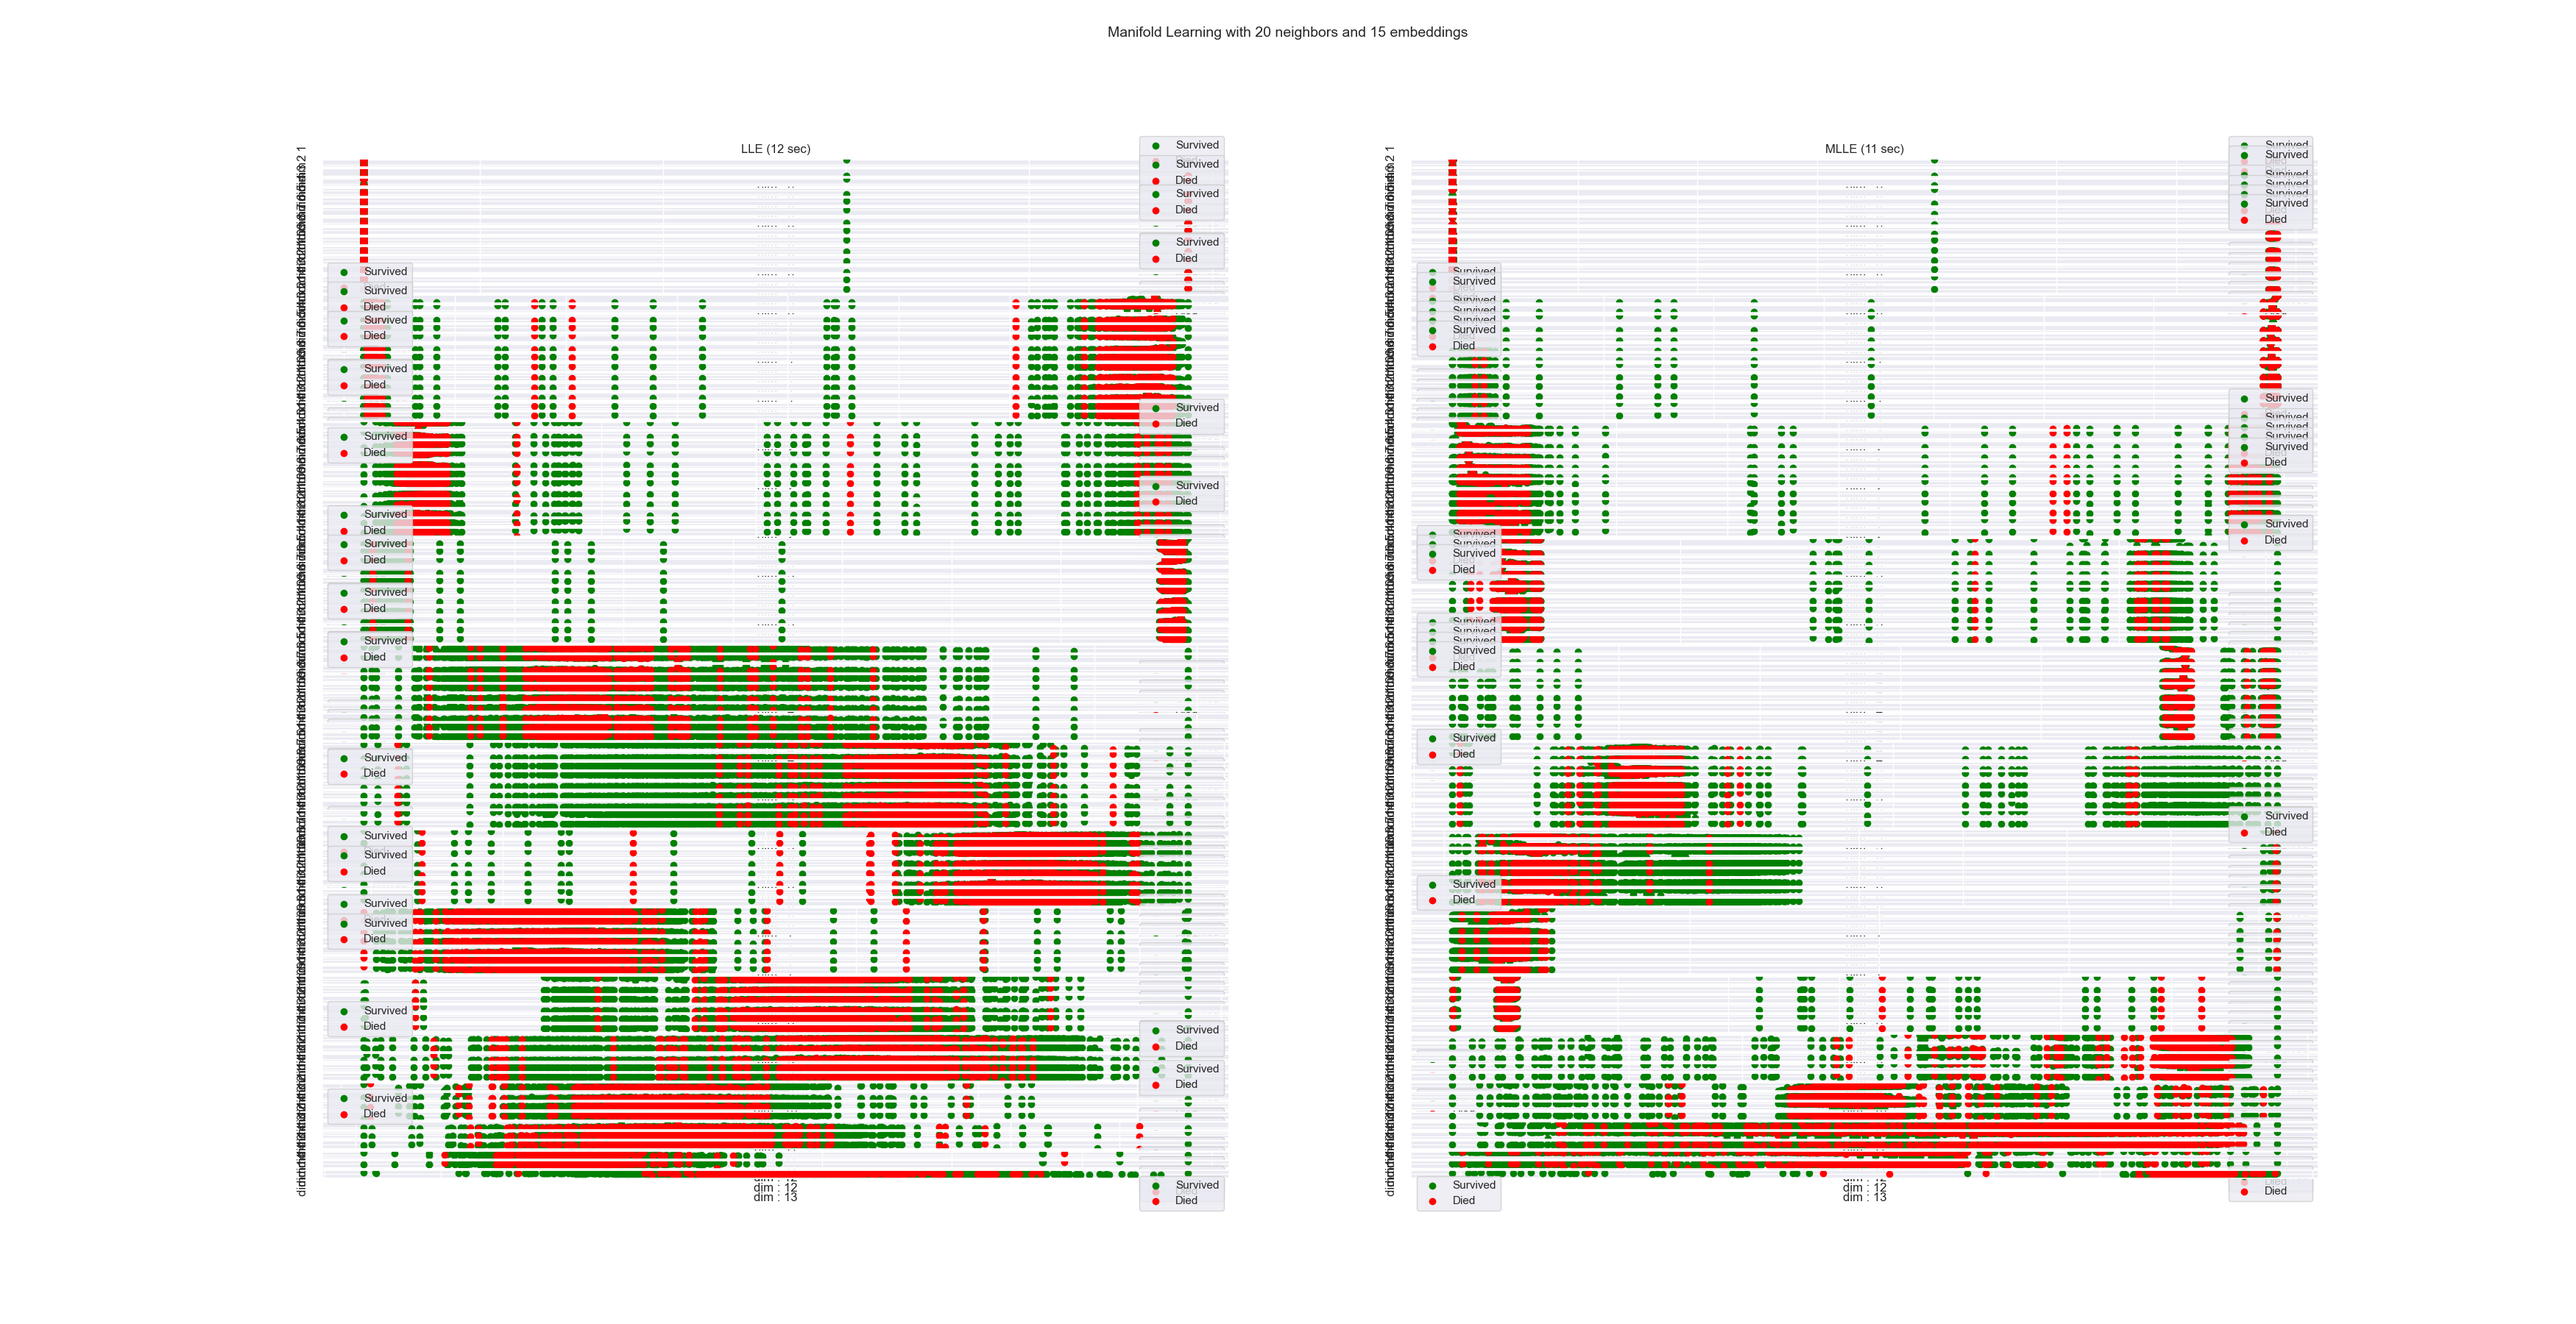
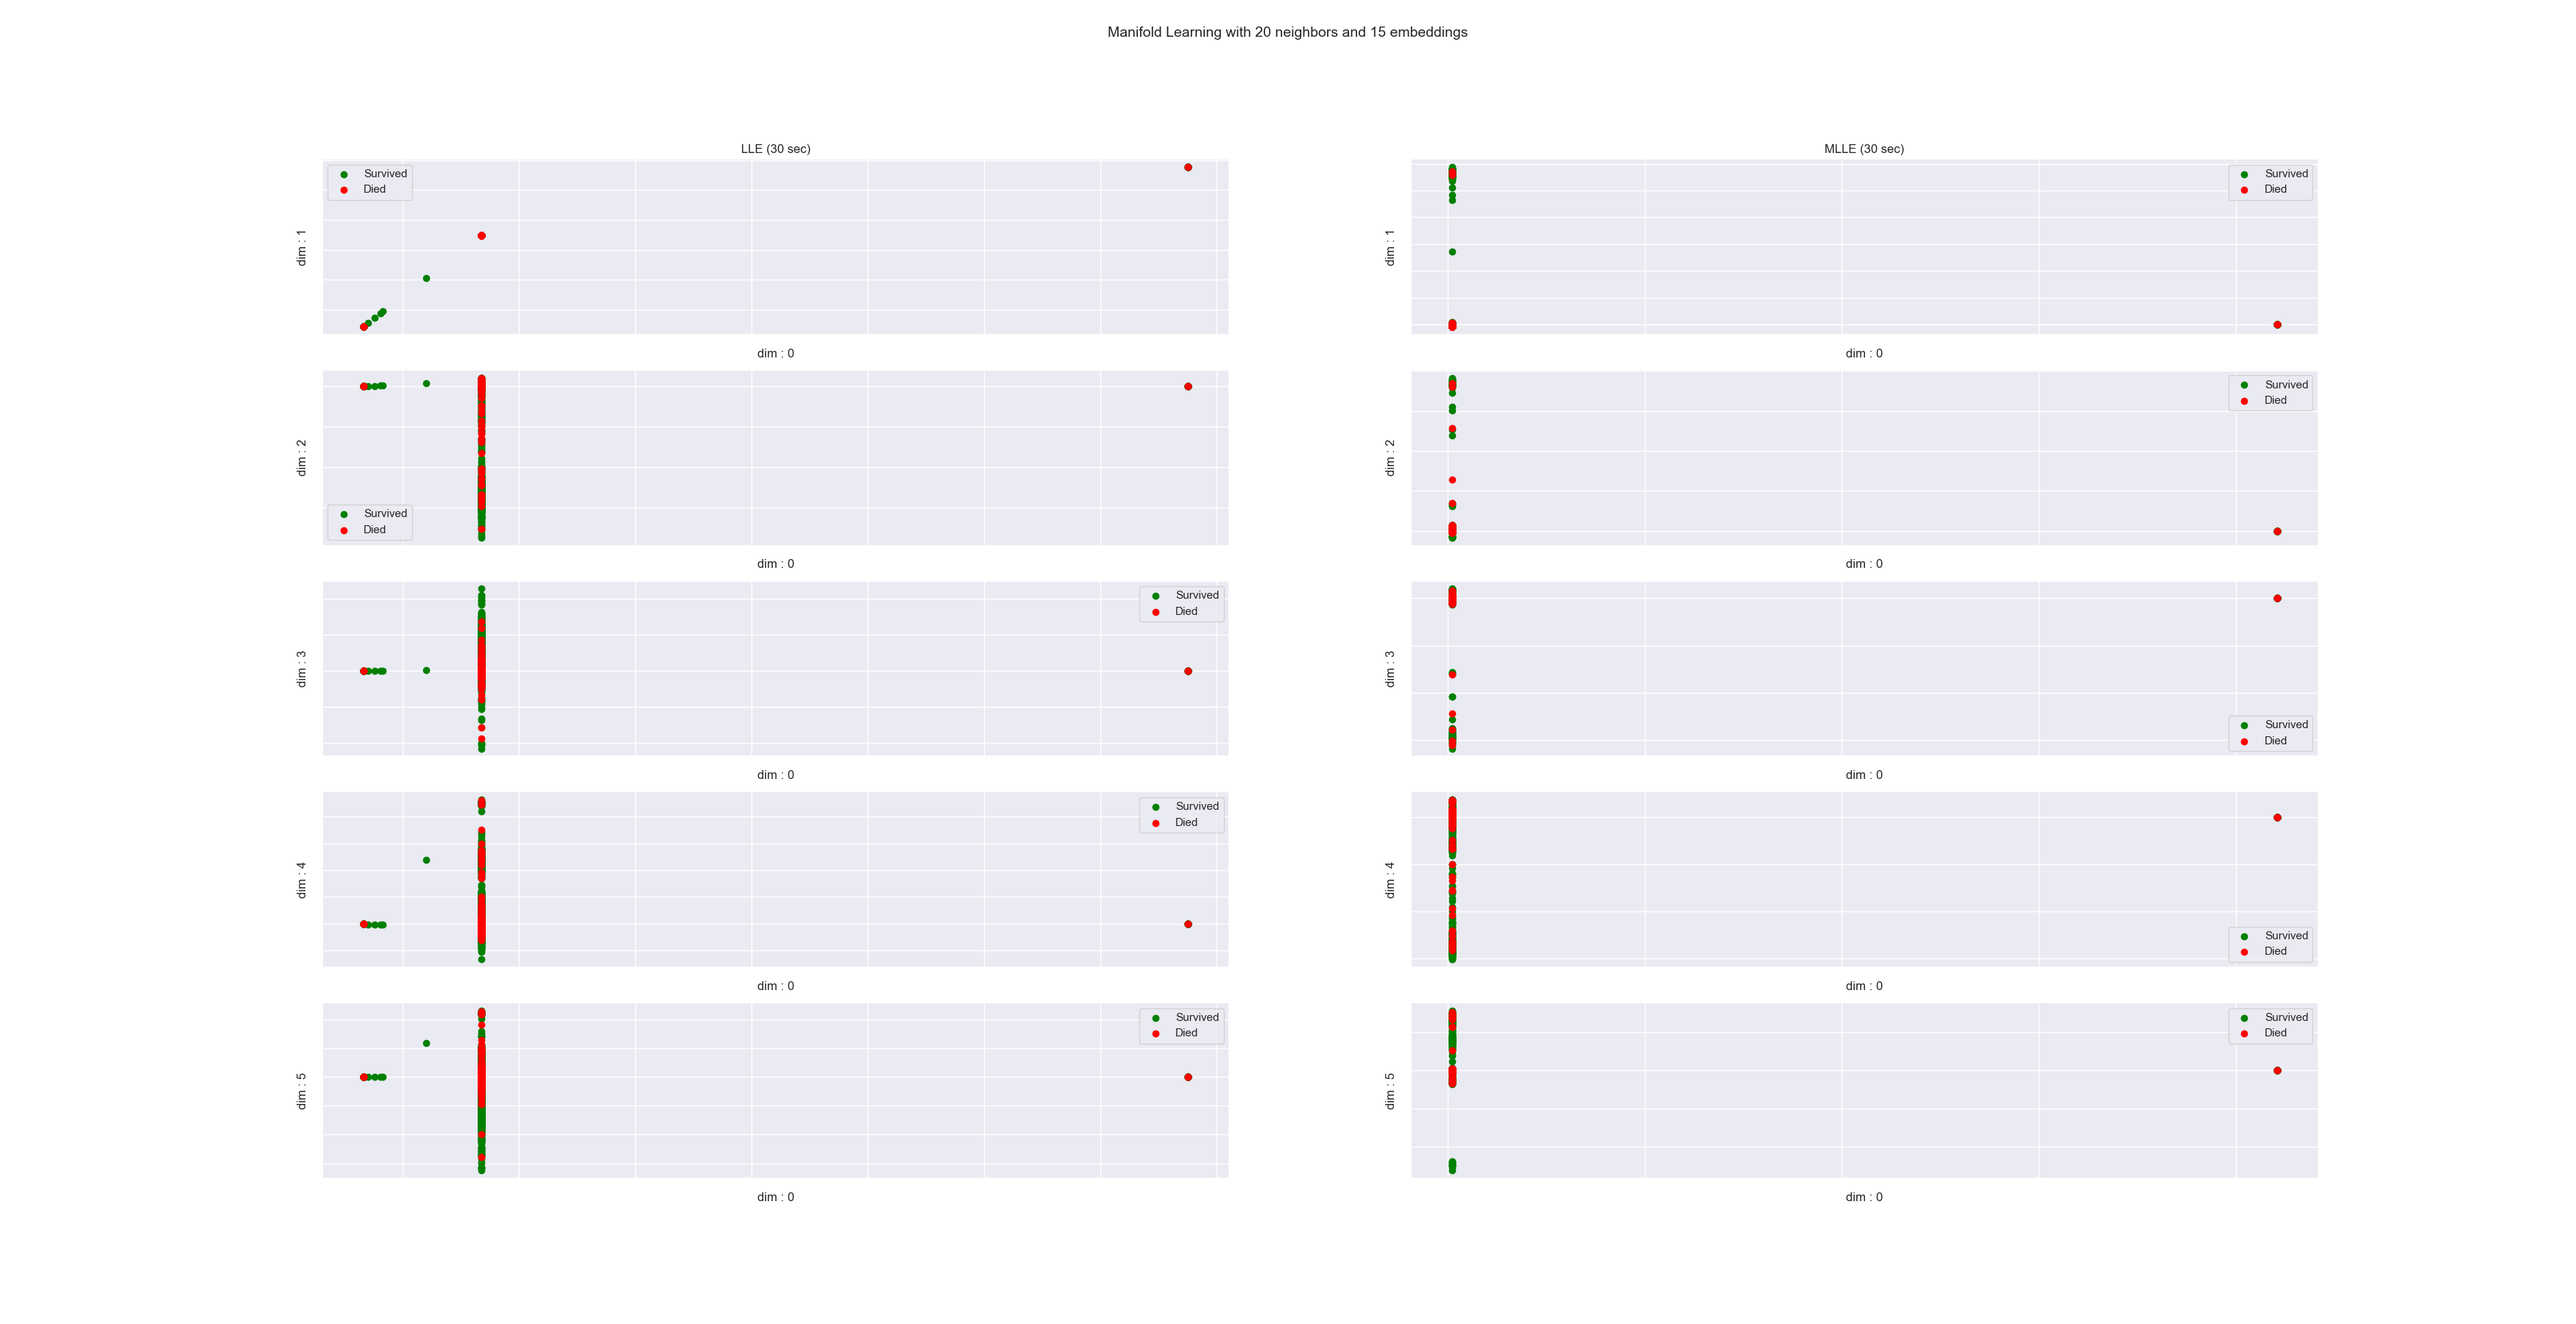
update of May 4th

diff --git a/Mine/run.py b/Mine/run.py
@@ -171,7 +171,7 @@ for (columnName, columnData) in data.iteritems():
 # print(data.info(verbose=True, show_counts=True))
 
 # # extract a random sample of data (take care of balancing)
-data = data.sample(frac=1).reset_index(drop=True)   # shuffle
+# data = data.sample(frac=1).reset_index(drop=True)   # shuffle
 nb_patients = len(data['hospital_death'])
 nb_survived = len(data[data['hospital_death'] == 0])
 nb_died = len(data[data['hospital_death'] == 1])
@@ -179,9 +179,9 @@ nb_died = len(data[data['hospital_death'] == 1])
 death_proportion = nb_died / nb_patients
 data_survived = data.loc[(data["hospital_death"] == 0)]
 data_dead = data.loc[(data["hospital_death"] == 1)]
-nb_samples = 7000
-part1 = data_dead.sample(int(nb_samples * death_proportion))
-part2 = data_survived.sample(nb_samples - int(nb_samples * death_proportion))
+nb_samples = 10000
+part1 = data_dead.sample(int(nb_samples * death_proportion), random_state=42)
+part2 = data_survived.sample(nb_samples - int(nb_samples * death_proportion), random_state=42)
 data_sampled = pd.concat([part1, part2])
 
 # --- deriving training and testing sets and normalizing (scaling them) --- #
@@ -201,31 +201,43 @@ LLE = partial(manifold.LocallyLinearEmbedding,
 nb_neighbors = 20
 nb_components = 15
 methods = OrderedDict()
-methods['PCA'] = PCA(n_components=40)
+methods['RAW'] = None
+nb_components_pca = [2, 3, 4, 5, 6, 7, 8, 9, 10, 20, 30, 40, 50, 60, 70, 80, 90, 97]
+for i in nb_components_pca:
+     pca = PCA(n_components=i)
+     X_train_pca = pca.fit_transform(X_train)
+     print('Total Explained Variance Ratio using {} components = {}%'.format(i, round(np.sum(pca.explained_variance_ratio_)*100, 2)))
+methods['PCA'] = PCA(n_components=50)
 methods['LLE'] = LLE(n_neighbors=nb_neighbors, n_components=nb_components, method="standard")
 methods['MLLE'] = LLE(n_neighbors=nb_neighbors, n_components=nb_components, method="modified")
 elapsed_dr = OrderedDict()
 X_train_dict = OrderedDict()
 X_test_dict = OrderedDict()
-labels_dr = ['PCA', 'LLE', 'MLLE']
+labels_dr = ['RAW', 'PCA', 'LLE', 'MLLE']
 for label in labels_dr:
+    if label == 'RAW':
+        X_train_dict[label] = X_train
+        X_test_dict[label] = X_test
+        elapsed_dr['RAW'] = 0
+        continue
     start_time = time.time()
     X_train_dict[label] = methods[label].fit_transform(X_train)
     X_test_dict[label] = methods[label].transform(X_test)
     elapsed_time = time.time() - start_time
     elapsed_dr[label] = elapsed_time
-    print(label + ' finished in ' + str(elapsed_time) + ' s!')
+    print(label + ' finished in ' + f'{elapsed_time:.2f}' + ' s!')
 # # set-up lle vs mlle figure
 list_comb = list(range(nb_components))
 list_comb = list(combinations(list_comb, 2))
-nb_pairs = len(list_comb)
+nb_pairs = min(len(list_comb), 5)
+list_comb = list_comb[:nb_pairs]
 fig, axs = plt.subplots(nb_pairs, 2, squeeze=False, figsize=(35, 18))
 fig.suptitle('Manifold Learning with %i neighbors and %i embeddings' % (nb_neighbors, nb_components), fontsize=14)
 for m, label in enumerate(labels_dr):
-    if label == 'PCA':
+    if label == 'PCA' or label == 'RAW':
         continue
     train = X_train_dict[label]
-    n = m - 1
+    n = m - 2
     for (l, x) in enumerate(list_comb):
         axs[l, n].scatter(train[y_train == 0, x[0]],
                           train[y_train == 0, x[1]], c='green', label='Survived')
@@ -259,26 +271,26 @@ states = []
 # # main loop
 for label_clf in labels_clf:
     for label_dr in labels_dr:
-        states.append(label_clf+':'+label_dr)
+        states.append(label_clf+':'+label_dr+':'+f'{elapsed_time:.2f}')
         start_time = time.time()
         classifiers[label_clf].fit(X_train_dict[label_dr], y_train)
         predictions = classifiers[label_clf].predict(X_test_dict[label_dr])
         elapsed_time = time.time() - start_time
         elapsed_tot.append(elapsed_time)
-        precision_scores.append(metrics.precision_score(y_test, predictions))
-        recall_scores.append(metrics.recall_score(y_test, predictions))
-        f1_scores.append(metrics.f1_score(y_test, predictions))
+        precision_scores.append(metrics.precision_score(y_test, predictions, average='weighted'))
+        recall_scores.append(metrics.recall_score(y_test, predictions, average='weighted'))
+        f1_scores.append(metrics.f1_score(y_test, predictions, average='weighted'))
         accuracy_scores.append(metrics.accuracy_score(y_test, predictions))
-        cms.append(metrics.confusion_matrix(y_test, predictions))
+        cms.append(metrics.confusion_matrix(y_test, predictions, normalize='true'))
         rocs.append(metrics.roc_curve(y_test, predictions))
-        print(label_clf + ':' + label_dr + ' finished in ' + str(elapsed_time) + ' s!')
+        print(label_clf + ':' + label_dr + ' finished in ' + f'{elapsed_time:.2f}' + ' s!')
 result = {'states': states, 'precision_scores': precision_scores, 'recall_scores': recall_scores,
           'f1_scores': f1_scores, 'accuracy_scores': accuracy_scores, 'time': elapsed_tot, 'cms': cms, 'rocs': rocs}
 result_df = pd.DataFrame(data=result)
 result_df.to_csv('./results.csv')
 # # set-up figures
-result_df_reduced = result_df[['precision_scores', 'recall_scores', 'f1_scores', 'accuracy_scores', 'time']]
-ax = result_df.plot(kind='bar', figsize=(40, 20))
+result_df_reduced = result_df[['precision_scores', 'recall_scores', 'f1_scores', 'accuracy_scores']]
+ax = result_df_reduced.plot(kind='bar', figsize=(40, 20))
 ax.set_xticklabels(states, rotation=45)
 plt.savefig('results.png')
 fig, axs = plt.subplots(len(labels_clf), len(labels_dr), squeeze=False, figsize=(40, 20))
